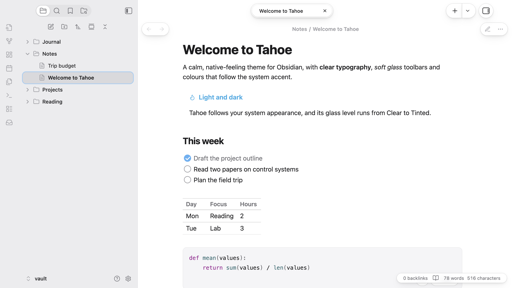
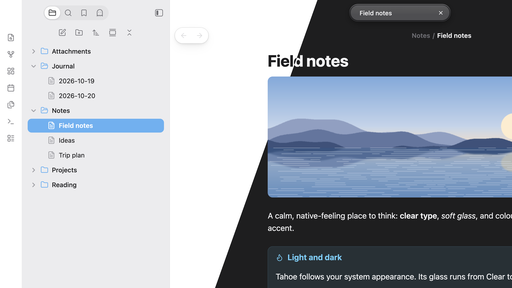
Tahoe 1.1.4: a new README with sharper screenshots, a note on Tahoe Glass in Style Settings, a sharper directory thumbnail

diff --git a/theme.css b/theme.css
@@ -32,6 +32,12 @@ settings:
     max: 1
     step: 0.05
   -
+    id: tahoe-glass-plugin
+    title: Real refraction
+    description: "The [Tahoe Glass](https://github.com/krishnanefx/obsidian-tahoe-glass) plugin makes the toolbar, menus and command palette bend what's behind them, with colour dispersion and glare. macOS."
+    type: info-text
+    markdown: true
+  -
     id: tahoe-no-scroll-edge
     title: Hide the toolbar band
     description: Let notes scroll under the toolbar without the glass band

diff --git a/README.md b/README.md
@@ -1,33 +1,52 @@
 # Tahoe
 
-A clean, Mac-like theme for Obsidian: edge-to-edge sidebars with coloured icons, glass toolbar capsules, a Spotlight-style command palette and settings laid out like the Mac's System Settings. In light and dark.
+**Obsidian, at home on your Mac.**
 
-![Tahoe in light mode](images/light.png)
+[![Downloads](https://img.shields.io/github/downloads/krishnanefx/obsidian-tahoe-theme/total?label=downloads)](https://github.com/krishnanefx/obsidian-tahoe-theme/releases)
+[![Latest release](https://img.shields.io/github/v/release/krishnanefx/obsidian-tahoe-theme?label=release)](https://github.com/krishnanefx/obsidian-tahoe-theme/releases/latest)
+[![MIT](https://img.shields.io/badge/license-MIT-blue)](LICENSE)
 
-![Tahoe in dark mode](images/dark.png)
+<picture>
+  <source media="(prefers-color-scheme: dark)" srcset="images/dark.png">
+  <img alt="Tahoe in Obsidian: a sidebar with coloured folder icons, a glass toolbar and a note with callouts and a checklist" src="images/light.png">
+</picture>
 
-## Highlights
+## The look
 
-- **Edge-to-edge sidebars.** No floating card or shadow; the ribbon is part of the sidebar column.
-- **Sidebar icons in colour.** Folders take the accent colour and open and close as you expand them. Notes, images, PDFs, canvases and bases each get their own icon and tint. The selection fills with the accent colour while the sidebar is the active pane, and turns grey when it isn't.
-- **A glass toolbar.** Tabs sit in one capsule with the active tab raised. Back and forward, the sidebar toggles, new tab and the view actions are capsules too. When a note scrolls underneath, a frosted band fades in behind them, done in CSS with scroll-driven animation.
-- **Glass from Clear to Tinted.** One level controls every glass surface: toolbar, menus, the command palette, notices and sheets.
-- **Mac proportions.** Menu and window corners, spacing and control sizes are taken from macOS.
-- **Inactive windows step back.** Toolbar controls and the title dim, and sidebar icons lose their colour.
-- **System typography and colours.** The system font (SF Pro on a Mac), system label and accent colours, and Xcode-style code colours.
-- **A Spotlight-style command palette** with a large search field.
-- **Settings like System Settings.** A flush sidebar with coloured icon tiles, grouped cards for each section and capsule controls.
-- **Controls.** Capsule buttons and pop-ups, switches, capsule sliders and round checklist boxes.
-- **Phones and tablets.** A floating tab bar, capsule nav-bar buttons, floating sheets for menus and drawers, and grouped settings.
+**Like the other apps on your Mac.** The system font, the system's label and accent colours, and the corners, spacing and control sizes of macOS. Sidebars run edge to edge, with coloured icons for folders, notes, images, PDFs, canvases and bases. In light and dark.
 
-## Options
+![Settings laid out like System Settings: coloured icon tiles in a flush sidebar, and grouped cards with capsule controls](images/settings.png)
 
-With the [Style Settings](https://github.com/mgmeyers/obsidian-style-settings) plugin you can:
+**Settings like System Settings,** with coloured icon tiles and grouped cards. Buttons and pop-ups are capsules, checklist boxes are round, and windows you aren't using step back: their controls dim and the sidebar icons lose their colour.
 
-- set the glass level, from Clear to Tinted;
-- hide the frosted toolbar band;
-- hide the sidebar file icons;
-- strike through completed tasks.
+## The glass
+
+![The toolbar's capsules over a note that has scrolled underneath, with a frosted band behind them](images/toolbar.png)
+
+**A glass toolbar.** Tabs sit in one capsule, with the active tab raised, and the other controls are capsules too. When a note scrolls under them, a frosted band fades in behind.
+
+![The command palette over a note, on frosted glass, with a large search field](images/palette.png)
+
+**One glass, from Clear to Tinted.** The toolbar, menus, the command palette, notices and sheets share one glass level, which you can set with Style Settings. The command palette is Spotlight-style, with a large search field.
+
+![With Tahoe Glass, the command palette bends the coloured callouts behind it at its edges](images/glass.png)
+
+**Real refraction, with [Tahoe Glass](https://github.com/krishnanefx/obsidian-tahoe-glass).** The optional plugin makes the glass bend what's behind it, with colour dispersion, glare and a highlight that follows the pointer. macOS.
+
+## On iPhone and iPad
+
+<img src="images/phone.png" alt="Tahoe on an iPhone: a note with a floating tab bar at the bottom, and the file list in a floating sheet" width="560">
+
+**Made for touch, too.** A floating tab bar, capsule buttons in the nav bar, floating sheets for menus and drawers, and grouped settings.
+
+## What it's for
+
+Tahoe is for people who'd like Obsidian to feel like a Mac app without setting anything up. Install it and that's the look: there are four options, and you don't need any of them.
+
+## Pairs with
+
+- **[Style Settings](https://github.com/mgmeyers/obsidian-style-settings):** set the glass level from Clear to Tinted, hide the frosted toolbar band, hide the sidebar file icons, and strike through completed tasks.
+- **[Tahoe Glass](https://github.com/krishnanefx/obsidian-tahoe-glass):** real refraction for the glass, and header cards on settings pages.
 
 ## Tips
 
@@ -62,6 +81,10 @@ Tahoe is a set of plugins and a theme that work on their own and fit together.
 - **With [Tahoe Organize](https://github.com/krishnanefx/obsidian-tahoe-organize):** Vault health, iCloud conflicts and inbox triage use the theme's settings-style cards.
 - **With [Tahoe Intelligence](https://github.com/krishnanefx/obsidian-tahoe-intelligence):** the Ask, Writing help and Distill sheets and the ✦ button take the theme's glass.
 <!-- /tahoe-family -->
+
+## Feedback
+
+Questions are welcome in [Discussions](https://github.com/krishnanefx/obsidian-tahoe-theme/discussions), and bugs and ideas in [Issues](https://github.com/krishnanefx/obsidian-tahoe-theme/issues/new/choose). If Tahoe is useful to you, a star helps others find it.
 
 ## Credits
 
